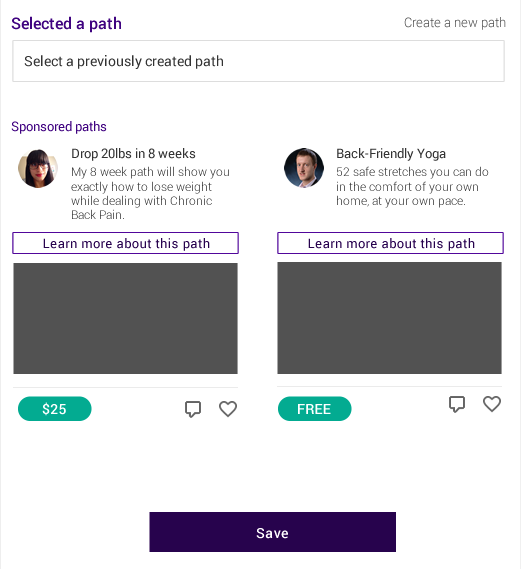
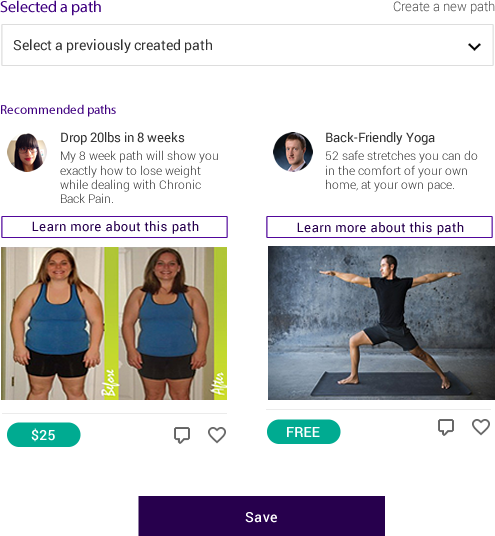
updated UI for demo

diff --git a/css/custom.css b/css/custom.css
@@ -443,6 +443,9 @@ JOURNAL PAGE
 	padding: 6px;
 	background-color: #ffffff;
 }
+#journal-entry .md-create, #journal-entry .md-camera-alt, #journal-entry .md-healing {
+	cursor: pointer;
+}
 #journal-entry #journal-entry-box{
 	width:100%;
 	margin-bottom: 5px;
@@ -617,7 +620,7 @@ img.path-hero-icon {
 	clear:both;
 	font-size: 16px;
 }
-.path-details-container input {
+.path-details-container input, .path-input {
 	padding-left: 5px;
 	margin-bottom: 5px;
 	width:100%;
@@ -625,6 +628,9 @@ img.path-hero-icon {
 	font-size: 14px;
 	color: #333333;
 	border: 1px solid #cccccc;
+}
+.path-input {
+	line-height: 40px;
 }
 .path-details-container textarea {
 	padding-left: 5px;

diff --git a/css/cards.css b/css/cards.css
@@ -7,7 +7,7 @@
   margin: 0.5rem 0.25rem 1rem 0.25rem;
   background-color: #fff;
   border-radius: 2px;
-  width: 330px;
+  width: 300px;
   display:block;
   -webkit-box-shadow: 0 2px 5px 0 rgba(0, 0, 0, 0.16), 0 2px 10px 0 rgba(0, 0, 0, 0.12);
   -moz-box-shadow: 0 2px 5px 0 rgba(0, 0, 0, 0.16), 0 2px 10px 0 rgba(0, 0, 0, 0.12);
